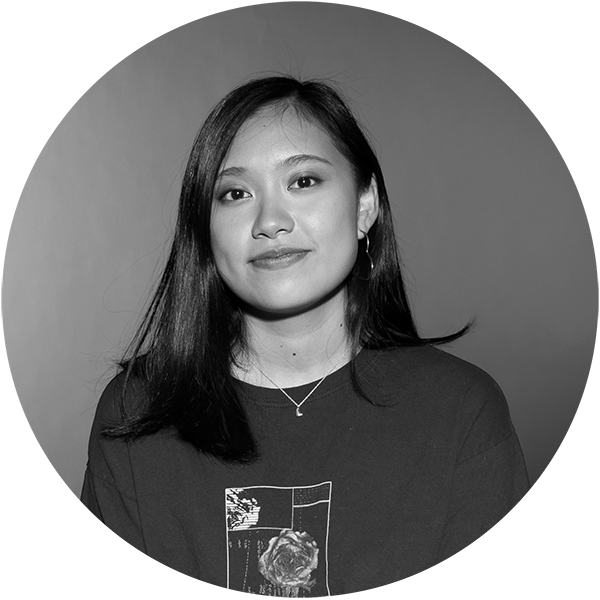
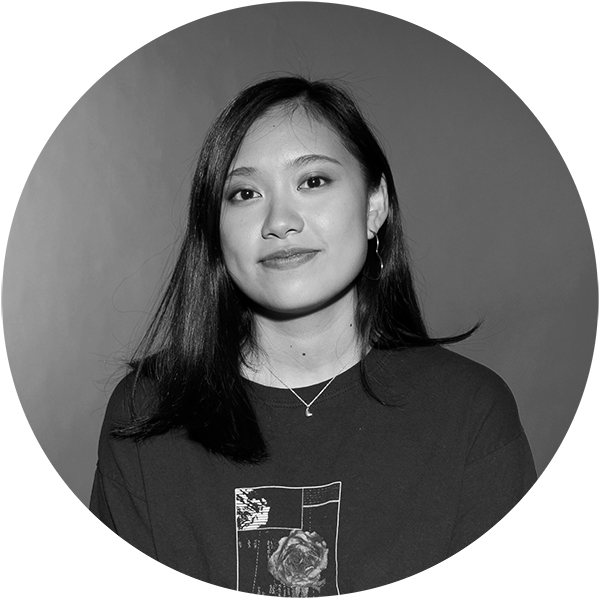
people grid and hovers

diff --git a/fullSite/html/about.html b/fullSite/html/about.html
@@ -54,26 +54,103 @@
             <p>Lorem ipsum dolor sit amet, consetetur sadipscing elitr, sed diam nonumy eirmod tempor invidunt ut labore et dolore magna aliquyam erat, sed diam voluptua. At vero eos et accusam et justo duo dolores et ea rebum. Stet clita kasd gubergren, no sea takimata sanctus est Lorem ipsum dolor sit amet. Lorem ipsum dolor sit amet, consetetur sadipscing elitr, sed diam nonumy eirmod tempor invidunt ut labore et dolore magna aliquyam erat, sed diam voluptua. At vero eos et accusam et justo duo dolores et ea rebum. Stet clita kasd gubergren, no sea takimata sanctus est Lorem ipsum dolor sit amet</p>
         </div>
         <div id="peopleWrap">
-            <button class="bioLink" id='abby'>Abby Blend</button>
-            <button class="bioLink" id='dani'>Dani Berman</button>
-            <button class="bioLink" id='carly'>Carly Blonski</button>
-            <button class="bioLink" id='ron'>Ron Feinberg</button>
-            <button class="bioLink" id='amber'>Amber Lai</button>
-            <button class="bioLink" id='michaela'>Michaela Lucas</button>
-            <button class="bioLink" id='cassie'>Cassie Luzenski</button>
-            <button class="bioLink" id='sarah'>Sarah Martin</button>
-            <button class="bioLink" id='taylor'>Taylor Mazzarella</button>
-            <button class="bioLink" id='tamar'>Tamar Najarian</button>
-            <button class="bioLink" id='emp'>Emily Parker</button>
-            <button class="bioLink" id='jackie'>Jackie Siry</button>
-            <button class="bioLink" id='sam'>Samantha Smith</button>
-            <button class="bioLink" id='zane'>Zane Sommese</button>
-            <button class="bioLink" id='megan'>Megan Tam</button>
-            <button class="bioLink" id='christie'>Christie Warren</button>
-            <button class="bioLink" id='emw'>Emily Watkins</button>
-            <button class="bioLink" id='eileen'>Eileen Yu</button>
+            <div class="column">
+                <div class="row">
+                    <div class="imageWrap">
+                        <input type="image" src="../images/headshots/normalBW/dani1.png" class="bioLink" alt="Dani Berman">
+                        <input type="image" src="../images/headshots/personality/dani2.png" class="bioLink personality" id="dani" alt="Dani Berman">
+                    </div>
+                    <div class="imageWrap">
+                        <input type="image" src="../images/headshots/normalBW/abby1.png" class="bioLink" alt="Abby Blend">
+                        <input type="image" src="../images/headshots/personality/abby2.png" class="bioLink personality" id="abby" alt="Abby Blend">
+                    </div>
+                    <div class="imageWrap">
+                        <input type="image" src="../images/headshots/normalBW/carly1.png" class="bioLink" alt="Carly Blonski">
+                        <input type="image" src="../images/headshots/personality/carly2.png" class="bioLink personality" id="carly" alt="Carly Blonski">
+                    </div>
+                </div>
+                <div class="row">
+                    <div class="imageWrap">
+                        <input type="image" src="../images/headshots/normalBW/ron1.png" class="bioLink" alt="Ron Feinberg">
+                        <input type="image" src="../images/headshots/personality/ron2.png" class="bioLink personality" id="ron" alt="Ron Feinberg">
+                    </div>
+                    <div class="imageWrap">
+                        <input type="image" src="../images/headshots/normalBW/amber1.png" class="bioLink" alt="Amber Lai">
+                        <input type="image" src="../images/headshots/personality/amber2.png" class="bioLink personality" id="amber" alt="Amber Lai">
+                    </div>
+                    <div class="imageWrap">
+                        <input type="image" src="../images/headshots/normalBW/michaela1.png" class="bioLink" alt="Michaela Lucas">
+                        <input type="image" src="../images/headshots/personality/michaela2.png" class="bioLink personality" id="michaela" alt="Michaela Lucas">
+                    </div>
+                </div>
+                <div class="row">
+                    <div class="imageWrap">
+                        <input type="image" src="../images/headshots/normalBW/cassie1.png" class="bioLink" alt="Cassie Luzenski">
+                        <input type="image" src="../images/headshots/personality/cassie2.png" class="bioLink personality" id="cassie" alt="Cassie Luzenski">
+                    </div>
+                    <div class="imageWrap">
+                        <input type="image" src="../images/headshots/normalBW/sarah1.png" class="bioLink" alt="Sarah Martin">
+                        <input type="image" src="../images/headshots/personality/sarah2.png" class="bioLink personality" id="sarah" alt="Sarah Martin">
+                    </div>
+                    <div class="imageWrap">
+                        <input type="image" src="../images/headshots/normalBW/taylor1.png" class="bioLink" alt="Taylor Mazzarella">
+                        <input type="image" src="../images/headshots/personality/taylor2.png" class="bioLink personality" id="taylor" alt="Taylor Mazzarella">
+                    </div>
+                </div>
+                <div class="row">
+                    <div class="imageWrap">
+                        <input type="image" src="../images/headshots/normalBW/tamar1.png" class="bioLink" alt="Tamar Najarian">
+                        <input type="image" src="../images/headshots/personality/tamar2.png" class="bioLink personality" id="tamar" alt="Tamar Najarian">
+                    </div>
+                    <div class="imageWrap">
+                        <input type="image" src="../images/headshots/normalBW/emp1.png" class="bioLink" alt="Emily Parker">
+                        <input type="image" src="../images/headshots/personality/emp2.png" class="bioLink personality" id="emp" alt="Emily Parker">
+                    </div>
+                    <div class="imageWrap">
+                        <input type="image" src="../images/headshots/normalBW/jackie1.png" class="bioLink" alt="Jackie Siry">
+                        <input type="image" src="../images/headshots/personality/jackie2.png" class="bioLink personality" id="jackie" alt="Jackie Siry">
+                    </div>
+                </div>
+                <div class="row">
+                    <div class="imageWrap">
+                        <input type="image" src="../images/headshots/normalBW/sam1.png" class="bioLink" alt="Sam Smith">
+                        <input type="image" src="../images/headshots/personality/sam2.png" class="bioLink personality" id="sam" alt="Sam Smith">
+                    </div>
+                    <div class="imageWrap">
+                        <input type="image" src="../images/headshots/normalBW/zane1.png" class="bioLink" alt="Zane Sommese">
+                        <input type="image" src="../images/headshots/personality/zane2.png" class="bioLink personality" id="zane" alt="Zane Sommese">
+                    </div>
+                    <div class="imageWrap">
+                        <input type="image" src="../images/headshots/normalBW/megan1.png" class="bioLink" alt="Megan Tam">
+                        <input type="image" src="../images/headshots/personality/megan2.png" class="bioLink personality" id="megan" alt="Megan Tam">
+                    </div>
+                </div>
+                <div class="row">
+                    <div class="imageWrap">
+                        <input type="image" src="../images/headshots/normalBW/christie1.png" class="bioLink" alt="Christie Warren">
+                        <input type="image" src="../images/headshots/personality/christie2.png" class="bioLink personality" id="christie" alt="Christie Warren">
+                    </div>
+                    <div class="imageWrap">
+                        <input type="image" src="../images/headshots/normalBW/emw1.png" class="bioLink" alt="Emily Watkins">
+                        <input type="image" src="../images/headshots/personality/emw2.png" class="bioLink personality" id="emw" alt="Emily Watkins">
+                    </div>
+                    <div class="imageWrap">
+                        <input type="image" src="../images/headshots/normalBW/eileen1.png" class="bioLink" alt="Eileen Yu">
+                        <input type="image" src="../images/headshots/personality/eileen2.png" class="bioLink personality" id="eileen" alt="Eileen Yu">
+                    </div>  
+                </div>
+            </div>
         </div>
     </div>
+
+    <!-- Back to Top Button -->
+
+    <input type="image" onclick="topFunction()" id="myBtn" alt="backtotop"
+       src="../images/about/backtotop.png" >
+    <script src="../js/topbutton.js"></script>
+
+    <!-- Modals -->
+
     <div id="modalBg">
         <div id="bioModal">
             <span id="closeModal">&times;</span>
@@ -96,6 +173,7 @@
             </div>
         </div>
     </div>
+    <script src="../js/topbutton.js"></script>
     <script src="../js/navOther.js"></script>
     <script src="../js/about.js"></script>
 </body>

diff --git a/fullSite/styles/about.css b/fullSite/styles/about.css
@@ -1,5 +1,9 @@
 /* Colors --------------------------------------------------------------------------- */
 
+html {
+    scroll-behavior: smooth;
+}
+
 :root {
     --blue: #1752ED;
     --pink: #F5246E;
@@ -8,9 +12,51 @@
     --navy: #051C59;
 }
 
+#groupPhotoWrap{
+    width: 100vw;
+    height: 100vh;
+    background: lightblue;
+    margin-bottom: 120px;
+}
+
+/* image grid --------------------------------------------------------------------------- */
+
+.row {
+    display: flex;
+    padding-bottom: 20px;
+    justify-content: center;
+  }
+  
+.column img {
+    margin-top: 8px;
+    vertical-align: middle;
+    width: 100%;
+  }
+
+.imageWrap {
+    width: 20%;
+    padding: 30px;
+    position: relative;
+
+}
+  
+@media screen and (max-width: 800px) {
+    .column {
+  
+    }
+  }
+  
+@media screen and (max-width: 600px) {
+    .column {
+    
+    }
+  }
+
+
 #nonModalWrap{
     transition: filter .1s ease-in-out;
-    margin-top: 100px;
+    margin-top: 50px;
+    margin-bottom: 200px;
 }
 
 .bioLink{
@@ -23,6 +69,7 @@
     display: block;
     background: none;
     border: none;
+    width: 100%;
 }
 
 .bioLink:hover{
@@ -137,6 +184,50 @@
     width: 100%;
     height: 100%;
 }
+
+/* Image hovers  --------------------------------------------------------------------------- */
+
+.personality{
+    position: absolute;
+    left: 0;
+    top: 0;
+    width: 100%;
+    padding: 30px;
+    opacity: 0;
+    box-sizing: border-box;
+    transition: opacity .2s ease-in-out;
+}
+
+.personality:hover{
+    opacity: 1;
+}
+
+/* Back to Top Button --------------------------------------------------------------------------- */
+
+html {
+    scroll-behavior: smooth;
+}
+
+#myBtn {
+    position: fixed;
+    bottom: 20px;
+    right: 50px;
+    z-index: 99;
+    border: none;
+    outline: none;
+    color: white;
+    cursor: pointer;
+    padding: 15px;
+    border-radius: 10px;
+    font-size: 18px;
+    max-width: 40px;
+  }
+
+  #myBtn:hover {
+        color: transparent;
+        text-shadow: 0px 0px 2px rgba(0,0,0,1);
+  }
+
 
 @media only screen and (max-width: 720px) {
     #bioModal{

diff --git a/fullSite/styles/styles.css b/fullSite/styles/styles.css
@@ -42,9 +42,10 @@ p{
 }
 
 .textWrap{
-    width: 60%;
+    width: 45%;
     margin: auto;
     margin-bottom: 120px;
+    text-align: center;
 }
 
 /* Navbar --------------------------------------------------------------------------- */
@@ -80,6 +81,10 @@ p{
     text-transform: uppercase;
     position: relative;
     transition: color 0.3s ease-in-out, text-shadow 0.3s ease-in-out;
+}
+
+.mainLink{
+    z-index: 110;
 }
 
 #logoWrap{
@@ -246,4 +251,17 @@ p{
         transform: translateY(0px);
     }
 }
+
+@media only screen and (max-width: 1070px) {
+    .textWrap{
+        width: 65%;
+    }
+}
+
+@media only screen and (max-width: 690px) {
+    .textWrap{
+        width: 80%;
+    }
+}
+
 

diff --git a/fullSite/js/topbutton.js b/fullSite/js/topbutton.js
@@ -1,0 +1,15 @@
+mybutton = document.getElementById("myBtn");
+        window.onscroll = function() {scrollFunction()};
+        
+        function scrollFunction() {
+          if (document.body.scrollTop > 20 || document.documentElement.scrollTop > 20) {
+            mybutton.style.display = "block";
+          } else {
+            mybutton.style.display = "none";
+          }
+        }
+
+        function topFunction() {
+          document.body.scrollTop = 0; // For Safari
+          document.documentElement.scrollTop = 0; // For Chrome, Firefox, IE and Opera
+        }
